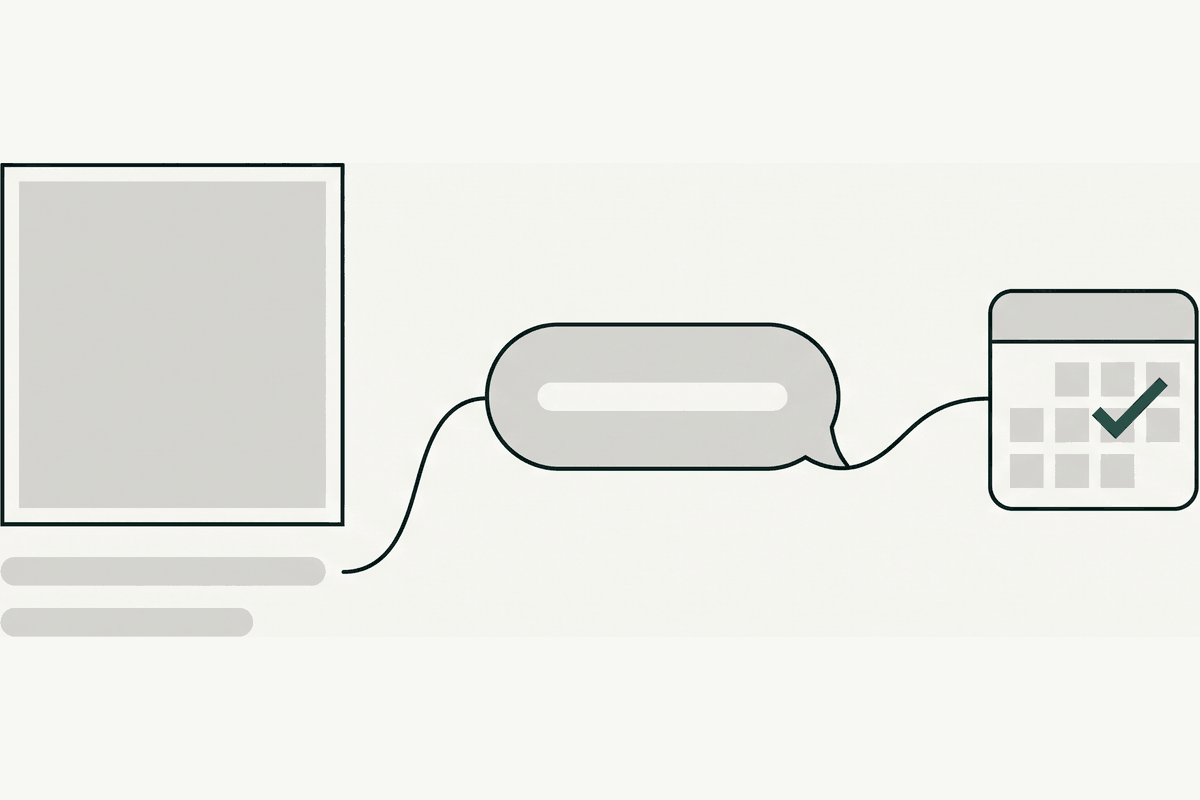
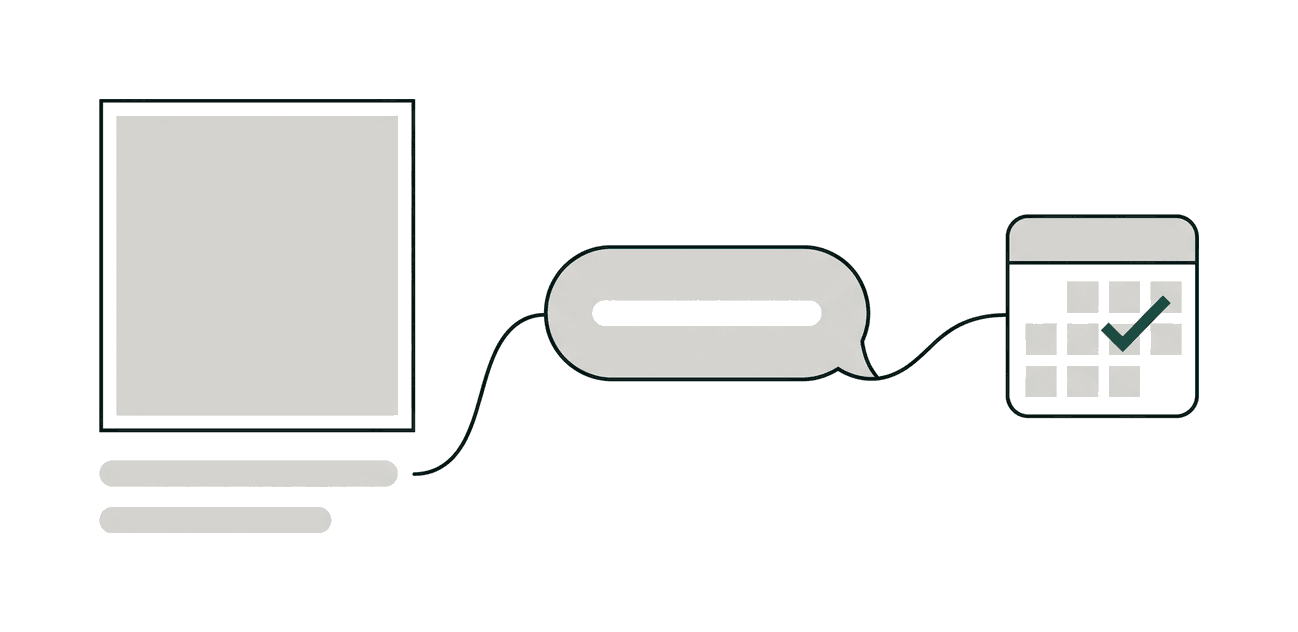
Fix illustration framing and add an accent colour system
The illustrations were wrapped in bordered cards, which read as a pale
rectangle floating inside a frame: the artwork carried its own off-white
background (and the Google listing art a baked-in card and shadow), so it
never sat flush with the page. They also rendered at full width, dominating
every service page.

Illustrations now render through IllustrationPanel, which blends them onto
an accent tint with mix-blend-multiply. That needs a genuinely uniform white
background, so every near-white pixel is collapsed to pure white — which
also cut the six files from 80-120KB each to 12-38KB. The Google listing art
was regenerated without its card.

Colour: five muted accents (green, amber, blue, teal, plum) assigned per
service, per article topic and cycled through card grids, so pages read as
distinct instead of uniformly beige. Saturated values are limited to chips,
code labels and thin rules; large areas take the tint. Applied to the
homepage surfaces and protocol grid, service pages, resources, process,
pricing, free-review and contact.

Changed region(s): [[0.0, 0.1503, 0.4625, 0.8418], [0.4317, 0.3307, 1.0, 0.6614], [0.4625, 0.5111, 0.6167, 0.5411]]

diff --git a/src/lib/accents.ts b/src/lib/accents.ts
@@ -1,0 +1,87 @@
+/**
+ * Accent assignment. Each service, article topic and homepage surface gets a
+ * stable hue so pages read as distinct rather than uniformly beige. The
+ * classes are written out in full because Tailwind only emits utilities it
+ * can see as literal strings.
+ */
+export type AccentName = 'green' | 'blue' | 'amber' | 'teal' | 'plum';
+
+export interface Accent {
+  /** Saturated hue — small elements only: labels, codes, rules. */
+  text: string;
+  /** Large light area — panels behind illustrations, chips. */
+  tint: string;
+  /** Chip: tint background with the saturated hue as text. */
+  chip: string;
+  /** Left rule / underline for section accents. */
+  border: string;
+  /** Saturated fill for thin rules and card top bars. */
+  bar: string;
+}
+
+export const ACCENTS: Record<AccentName, Accent> = {
+  green: {
+    text: 'text-a-green',
+    tint: 'bg-a-green-tint',
+    chip: 'bg-a-green-tint text-a-green',
+    border: 'border-a-green',
+    bar: 'bg-a-green',
+  },
+  blue: {
+    text: 'text-a-blue',
+    tint: 'bg-a-blue-tint',
+    chip: 'bg-a-blue-tint text-a-blue',
+    border: 'border-a-blue',
+    bar: 'bg-a-blue',
+  },
+  amber: {
+    text: 'text-a-amber',
+    tint: 'bg-a-amber-tint',
+    chip: 'bg-a-amber-tint text-a-amber',
+    border: 'border-a-amber',
+    bar: 'bg-a-amber',
+  },
+  teal: {
+    text: 'text-a-teal',
+    tint: 'bg-a-teal-tint',
+    chip: 'bg-a-teal-tint text-a-teal',
+    border: 'border-a-teal',
+    bar: 'bg-a-teal',
+  },
+  plum: {
+    text: 'text-a-plum',
+    tint: 'bg-a-plum-tint',
+    chip: 'bg-a-plum-tint text-a-plum',
+    border: 'border-a-plum',
+    bar: 'bg-a-plum',
+  },
+};
+
+/** Service slug → accent. Websites keep the brand green. */
+const SERVICE_ACCENTS: Record<string, AccentName> = {
+  'healthcare-websites': 'green',
+  'google-business-profile': 'amber',
+  'local-seo': 'blue',
+  'website-care': 'teal',
+  'social-media': 'plum',
+};
+
+export const serviceAccent = (slug: string): Accent =>
+  ACCENTS[SERVICE_ACCENTS[slug] ?? 'green'];
+
+/** Resource topic → accent, matched to the service each topic belongs to. */
+const TOPIC_ACCENTS: Record<string, AccentName> = {
+  websites: 'green',
+  'google-business-profile': 'amber',
+  'local-seo': 'blue',
+  performance: 'teal',
+  patients: 'plum',
+};
+
+export const topicAccent = (topic: string): Accent =>
+  ACCENTS[TOPIC_ACCENTS[topic] ?? 'green'];
+
+/** Cycle for lists with no natural mapping (the protocol grid). */
+const CYCLE: AccentName[] = ['green', 'amber', 'blue', 'teal', 'plum'];
+
+export const cycleAccent = (index: number): Accent => ACCENTS[CYCLE[index % CYCLE.length]!];

diff --git a/src/styles/global.css b/src/styles/global.css
@@ -66,6 +66,24 @@
   --color-pass-tint: #eaf7f1;
   --color-star: #b8862f;
 
+  /*
+   * Accent family. Five muted hues so each service, article topic and card
+   * reads as its own thing instead of another beige rectangle. Saturated
+   * versions are for small elements only (labels, chips, rules); the tints
+   * carry large areas and are light enough to sit under `mix-blend-multiply`
+   * illustrations without shifting their ink.
+   */
+  --color-a-green: #0b5d4e;
+  --color-a-green-tint: #e9f1ee;
+  --color-a-blue: #1d4e6b;
+  --color-a-blue-tint: #e8eff4;
+  --color-a-amber: #96601f;
+  --color-a-amber-tint: #f6efe3;
+  --color-a-teal: #0f6763;
+  --color-a-teal-tint: #e5f0ef;
+  --color-a-plum: #6a3a57;
+  --color-a-plum-tint: #f2eaef;
+
   /* Dark ink panel family (one panel per page, never a theme) */
   --color-panel: #0e1714;
   --color-panel-card: #142020;

diff --git a/.claude/skills/careinflow-design/SKILL.md b/.claude/skills/careinflow-design/SKILL.md
@@ -22,6 +22,20 @@ Source of truth: `docs/design/careinflow-design-system.dc.html` (direction 2a on
 
 **Max one dark ink panel per page. Never a dark theme.** The footer counts as its own panel and is exempt.
 
+## Accents
+
+Five muted hues extend the base palette so pages are not uniformly beige. Never hand-pick one — take it from `src/lib/accents.ts` (`serviceAccent`, `topicAccent`, `cycleAccent`), which returns literal class strings because Tailwind only emits utilities it can see as literals.
+
+| Accent | Owns |
+|---|---|
+| green `#0B5D4E` | brand, healthcare websites, website articles |
+| amber `#96601F` | Google Business Profile |
+| blue `#1D4E6B` | local SEO |
+| teal `#0F6763` | website care, the free review |
+| plum `#6A3A57` | social media, patient-behaviour articles |
+
+Saturated values are for **small elements only** — chips, code labels, 1–1.5px top rules. Large areas take the `-tint`. Body text, headings and section labels stay ink/green: accents identify, they do not decorate.
+
 ## Type
 
 Manrope variable only for text; JetBrains Mono for labels, measurements and chips.
@@ -53,6 +67,8 @@ Section labels use record vocabulary — CHART, TRIAGE, PROTOCOL, INDICATION, ST
 ## Imagery
 
 Never a card with a fictional clinic name — a visitor must never wonder whether CareInflow is itself a clinic. Use the illustration in `src/assets/`, real client screenshots in `src/assets/work/`, or nothing. All images go through `astro:assets` `<Image>` with `widths`, `sizes` and real alt text. Hero images: `loading="eager"` + `fetchpriority="high"`; everything else lazy.
+
+**Illustrations always use `IllustrationPanel`**, never a bordered card. The artwork ships on pure white and the panel applies the accent tint under `mix-blend-multiply`, so the background disappears into the tint instead of floating as a pale rectangle inside a frame. This only works if the artwork's background is genuinely uniform white — see the `careinflow-images` skill for the normalisation step. Photographs (portrait, studio) keep a plain border and do **not** get blended.
 
 ## Logo
 

diff --git a/.claude/skills/careinflow-images/SKILL.md b/.claude/skills/careinflow-images/SKILL.md
@@ -40,6 +40,20 @@ Sharp's pipeline order is fixed (trim → resize → extend), so `extend()` afte
 
 Illustrations → PNG (flat colour compresses well). Photographs → JPEG q88.
 
+### Normalising illustration backgrounds (required)
+
+Illustrations render through `IllustrationPanel`, which blends them onto an accent tint with `mix-blend-multiply`. That only looks right if the background is **uniformly pure white** — the generator emits its own off-white (typically `#F5F5F0`) which, next to added white padding, multiplies to two visibly different tones and reveals a rectangle.
+
+So after trimming and padding onto white, collapse every near-white pixel to `#FFFFFF`:
+
+```js
+if (r >= 236 && g >= 236 && b >= 236) { r = g = b = 255; }
+```
+
+Grey fills sit near 210 and survive untouched. This also cuts file size sharply (one flat colour instead of a gradient of near-whites) — the six service illustrations dropped from ~80–120 KB each to 12–38 KB.
+
+Ask the generator for art that "floats directly on a plain flat background with no card, no panel, no frame, no border and no shadow" — a baked-in card edge survives trimming and shows through the blend.
+
 ## Rendering
 
 Always `<Image>` from `astro:assets` with `widths`, `sizes`, and descriptive alt text that states what the image shows. Hero images: `loading="eager"` + `fetchpriority="high"`. Everything else: `loading="lazy"`. Wrap in `<figure>` with a mono `<figcaption>` when the image needs context. Astro emits width/height automatically, so CLS stays at zero — never strip them.
